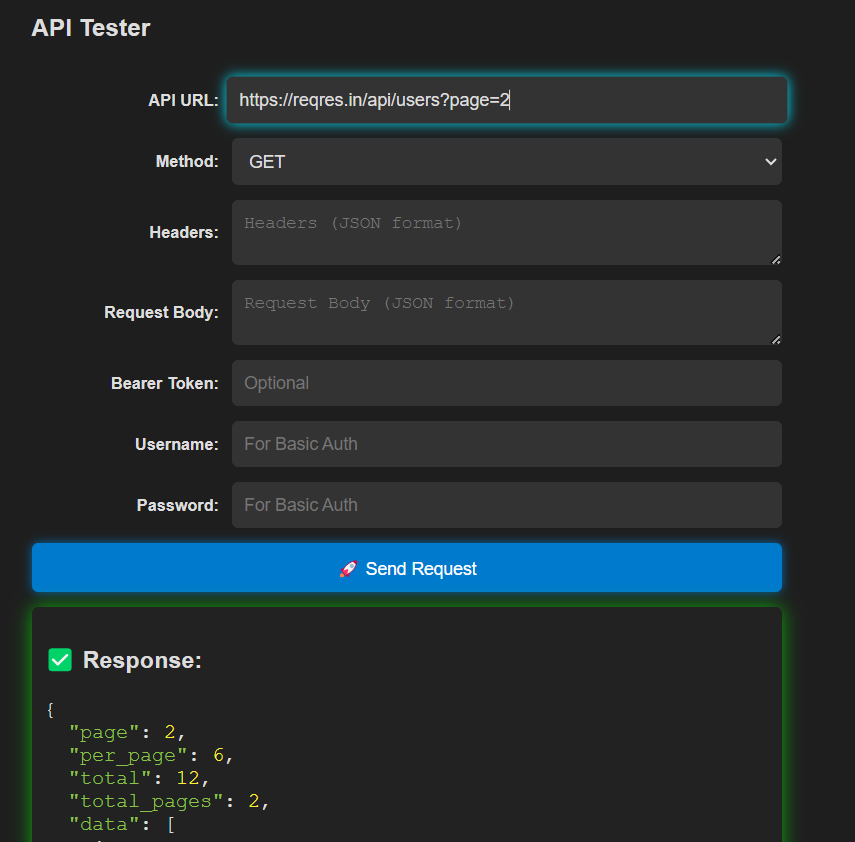
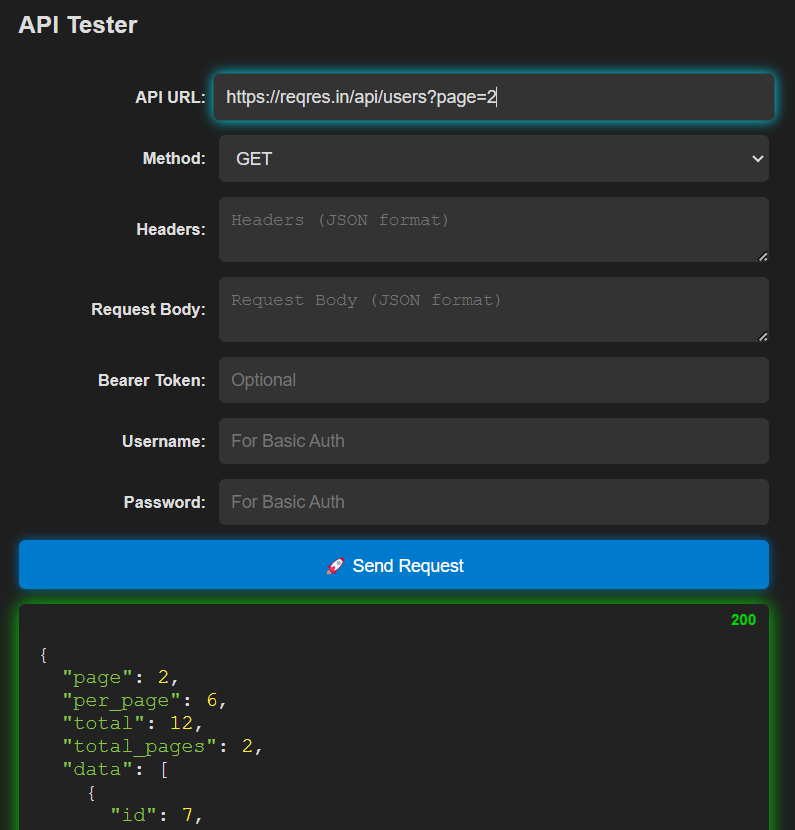
Added status code in response

diff --git a/extension.js b/extension.js
@@ -46,9 +46,9 @@ async function handleApiRequest({ url, method, headers, body, token, username, p
     };
 
     const response = await axios(axiosOptions);
-    return { success: true, data: response.data };
+    return { success: true, statusCode: response.status, data: response.data };
   } catch (error) {
-    return { success: false, error: error.message };
+    return { success: false, statusCode: error.response?.status || "Unknown", error: error.message };
   }
 }
 
@@ -111,25 +111,43 @@ function getWebviewContent() {
           transform: scale(1.05);
         }
         .json-container {
+          position: relative;
           background: #222;
-          padding: 10px;
+          padding: 15px;
           border-radius: 5px;
           font-size: 16px;
           white-space: pre-wrap;
           word-wrap: break-word;
           transition: box-shadow 0.3s ease-in-out;
+          display: flex;
+          flex-direction: column;
+          align-items: flex-start;  /* Ensures text starts at the top */
         }
         .success {
-          box-shadow: 0 0 15px rgba(0, 255, 0, 0.6);
+          box-shadow: 0 0 15px rgba(0, 255, 0, 0.8);
         }
         .error {
-          box-shadow: 0 0 15px rgba(255, 0, 0, 0.6);
+          box-shadow: 0 0 20px rgba(255, 50, 50, 0.9);  /* More intense red glow */
         }
-        .key { color: #f08d49; }  /* Orange for keys */
-        .string { color: #8bc34a; }  /* Green for strings */
-        .number { color: #ffeb3b; }  /* Yellow for numbers */
-        .boolean { color: #03a9f4; }  /* Blue for booleans */
-        .null { color: #ff5722; }  /* Red for null */
+        .status-code {
+          position: absolute;
+          top: 5px;
+          right: 10px;
+          font-size: 12px;
+          font-weight: bold;
+          opacity: 0.8;
+        }
+        .status-success {
+          color: #00ff00;
+        }
+        .status-error {
+          color: #ff3333;  /* Brighter red */
+        }
+        .key { color: #f08d49; }  
+        .string { color: #8bc34a; }  
+        .number { color: #ffeb3b; }  
+        .boolean { color: #03a9f4; }  
+        .null { color: #ff5722; }  
       </style>
     </head>
     <body>
@@ -205,10 +223,16 @@ function getWebviewContent() {
           if (message.command === "response") {
             if (message.response.success) {
               responseDiv.className = "json-container success";
-              responseDiv.innerHTML = "<h3>✅ Response:</h3><pre>" + syntaxHighlight(JSON.stringify(message.response.data, null, 2)) + "</pre>";
+              responseDiv.innerHTML = \`
+                <div class="status-code status-success">\${message.response.statusCode}</div>
+                <pre>\${syntaxHighlight(JSON.stringify(message.response.data, null, 2))}</pre>
+              \`;
             } else {
               responseDiv.className = "json-container error";
-              responseDiv.innerHTML = "<h3 style='color:red;'>❌ Error:</h3><pre>" + message.response.error + "</pre>";
+              responseDiv.innerHTML = \`
+                <div class="status-code status-error">\${message.response.statusCode || "Error"}</div>
+                <pre>\${message.response.error}</pre>
+              \`;
             }
           }
         });
@@ -236,6 +260,9 @@ function getWebviewContent() {
     </html>
   `;
 }
+
+
+
 
 exports.activate = activate;
 function deactivate() { }
